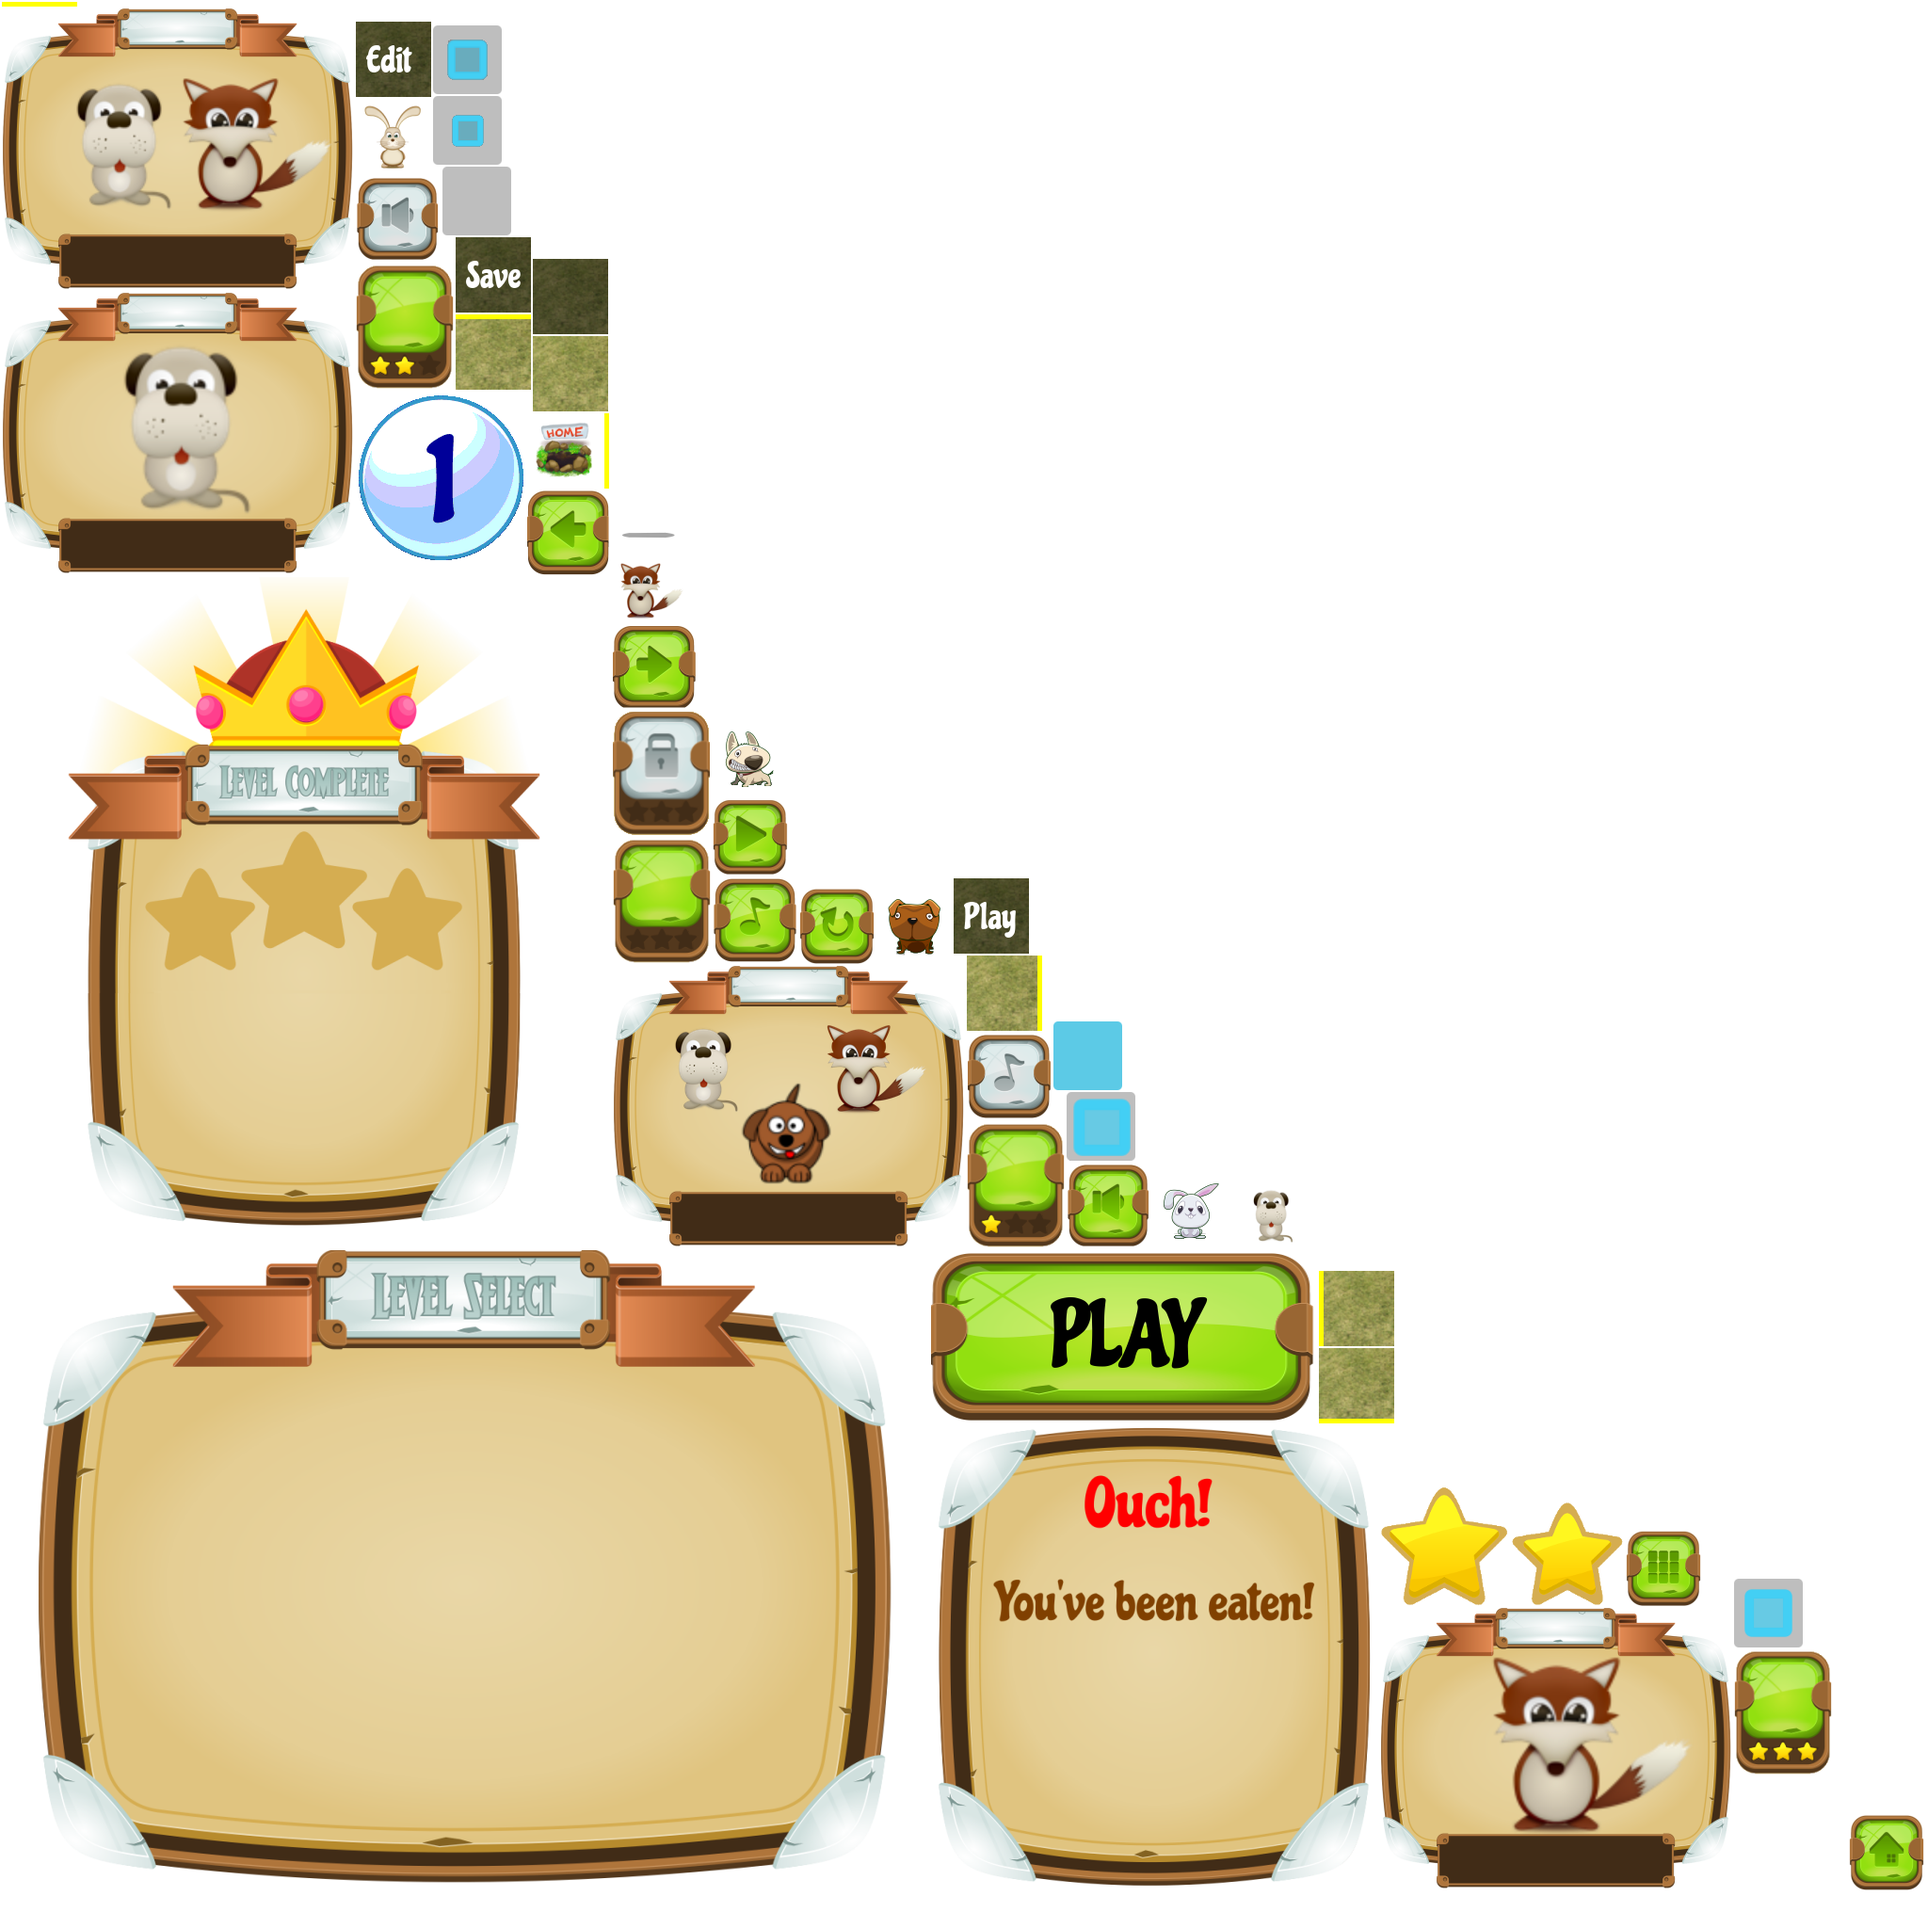
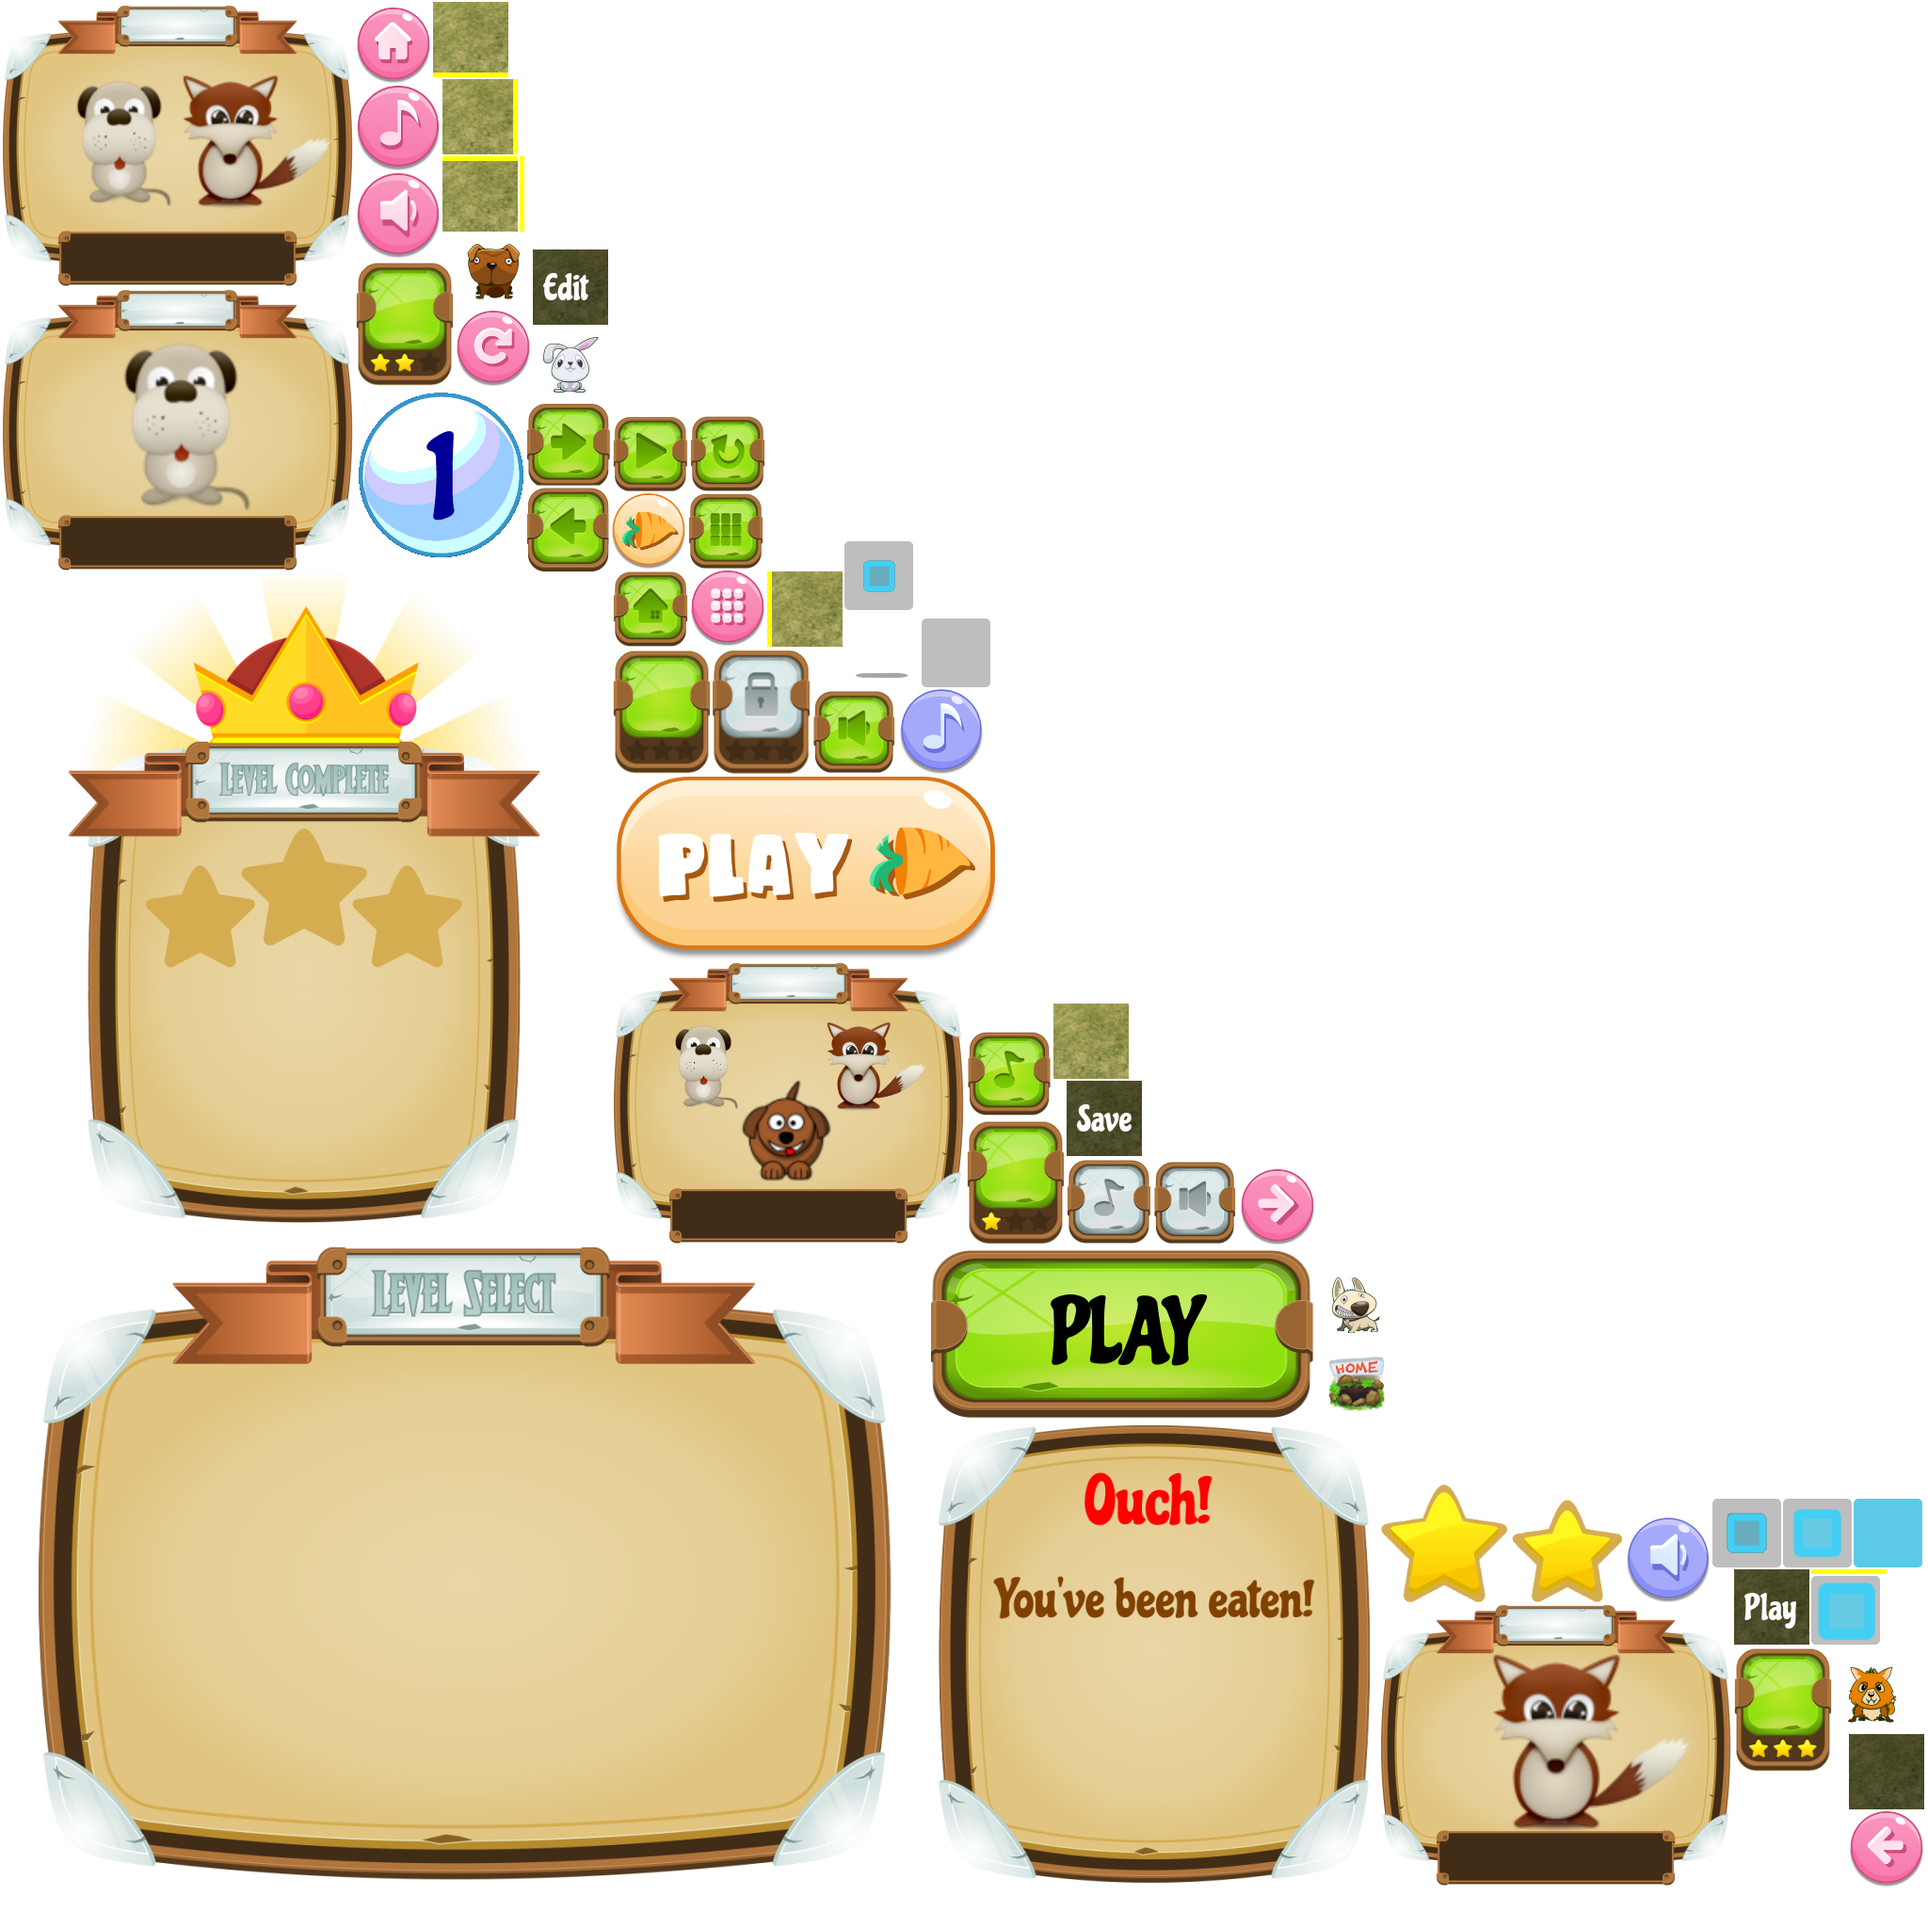
change home buttons position and generate new sprite

diff --git a/core/src/es/seastorm/merlin/screens/menu/MenuScreenController.java b/core/src/es/seastorm/merlin/screens/menu/MenuScreenController.java
@@ -80,31 +80,31 @@ public class MenuScreenController extends Controller {
 
 
         btnPlay = new SimpleGameObject(GameAssets.instance.getTextureRegion(GameAssets.ASSET_BTN_PLAY));
-        btnPlay.position.x = 750;
-        btnPlay.position.y = 200;
+        btnPlay.position.x = 800;
+        btnPlay.position.y = 330;
         addGameObject(btnPlay);
 
         btnMusic = new SimpleGameObject(GameAssets.instance.getTextureRegion(GameAssets.ASSET_BTN_MUSIC));
-        btnMusic.position.x = 825;
-        btnMusic.position.y = 50;
+        btnMusic.position.x = 870;
+        btnMusic.position.y = 160;
         btnMusic.visible = ((MerlinGame) game).music;
         addGameObject(btnMusic);
 
         btnMusicOff = new SimpleGameObject(GameAssets.instance.getTextureRegion(GameAssets.ASSET_BTN_MUSIC_OFF));
-        btnMusicOff.position.x = 825;
-        btnMusicOff.position.y = 50;
+        btnMusicOff.position.x = 870;
+        btnMusicOff.position.y = 160;
         btnMusicOff.visible = !((MerlinGame) game).music;
         addGameObject(btnMusicOff);
 
         btnFx = new SimpleGameObject(GameAssets.instance.getTextureRegion(GameAssets.ASSET_BTN_FX));
-        btnFx.position.x = 1000;
-        btnFx.position.y = 50;
+        btnFx.position.x = 1045;
+        btnFx.position.y = 160;
         btnFx.visible = ((MerlinGame) game).sound;
         addGameObject(btnFx);
 
         btnFxOff = new SimpleGameObject(GameAssets.instance.getTextureRegion(GameAssets.ASSET_BTN_FX_OFF));
-        btnFxOff.position.x = 1000;
-        btnFxOff.position.y = 50;
+        btnFxOff.position.x = 1045;
+        btnFxOff.position.y = 160;
         btnFxOff.visible = !((MerlinGame) game).sound;
         addGameObject(btnFxOff);
 
